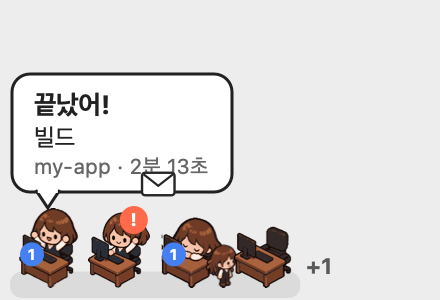
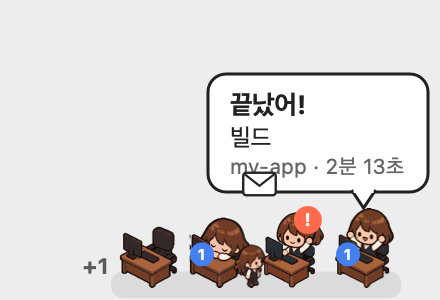
사무실을 오른쪽에서 왼쪽으로 늘린다
먼저 출근한 사람이 맨 오른쪽에 앉고 새로 온 사람은 그 왼쪽에 앉는다. +N 은 왼쪽 끝에 붙는다.
새 세션은 빈 공간인 왼쪽 끝에서 걸어 들어오고 왼쪽으로 걸어 나간다.
화면에 없는 세션이 보낸 메시지 봉투는 +N 쪽 왼쪽 끝에서 날아온다.
화면 오른쪽 구석에 두었을 때 사무실이 화면 안쪽으로 자라도록 한 배치. README 그림도 바꾼다.

diff --git a/src/BgBuddy.swift b/src/BgBuddy.swift
@@ -1413,7 +1413,10 @@ final class OfficeView: NSView {
         needsDisplay = true
     }
 
-    private func slotX(_ i: Int) -> CGFloat { OfficeView.margin + CGFloat(i) * (pack.slotW + OfficeView.gap) }
+    // 사무실은 오른쪽에서 왼쪽으로 늘어난다: 먼저 출근한 사람이 맨 오른쪽, 새로 온 사람은 그 왼쪽.
+    // 맨 오른쪽 책상 옆에 설 에이전트 자리만큼 오른쪽을 비워 둔다. +N 은 왼쪽 끝에.
+    private var rightStart: CGFloat { bounds.width - OfficeView.margin - pack.slotW * 0.45 - pack.slotW }
+    private func slotX(_ i: Int) -> CGFloat { rightStart - CGFloat(i) * (pack.slotW + OfficeView.gap) }
     private let floorY: CGFloat = 6
 
     private func frameRect(_ s: Seat, x: CGFloat, image: CGImage, scale k: CGFloat = 1) -> NSRect {
@@ -1436,26 +1439,27 @@ final class OfficeView: NSView {
         let now = Date()
         // 바닥: 앉은 사람 수만큼의 옅은 띠
         if !shown.isEmpty {
-            let w = CGFloat(shown.count) * (pack.slotW + OfficeView.gap) - OfficeView.gap
+            let left = slotX(shown.count - 1), right = slotX(0) + pack.slotW
             NSColor(white: 0.5, alpha: 0.16).setFill()
-            NSBezierPath(roundedRect: NSRect(x: OfficeView.margin - 3, y: 1, width: w + 6, height: floorY + pack.heightPt * 0.18), xRadius: 6, yRadius: 6).fill()
+            NSBezierPath(roundedRect: NSRect(x: left - 3, y: 1, width: right - left + 6, height: floorY + pack.heightPt * 0.18), xRadius: 6, yRadius: 6).fill()
         }
         for (i, s) in shown.enumerated() {
             let v = pack.variants[s.variant]
             let x = slotX(i)
             if let start = s.walkIn ?? s.walkOut ?? s.leaving {
-                // 출근·퇴근: 빈 책상 + 걷는 사람. 들어올 때는 오른쪽 끝에서 왼쪽으로(좌우 반전), 나갈 때는 오른쪽으로
+                // 출근·퇴근: 빈 책상 + 걷는 사람. 빈 공간인 왼쪽 끝에서 걸어 들어오고(그림 그대로 오른쪽을 봄),
+                // 나갈 때는 왼쪽으로 걸어 나간다(좌우 반전)
                 let empty = v.frames[pack.frames("empty")[0]]
                 ctx.draw(empty, in: frameRect(s, x: x, image: empty))
                 let t = min(1, now.timeIntervalSince(start) / OfficeView.walkTime)
                 let walker = v.frames[cycle("walk", start)]
                 let wr = frameRect(s, x: x, image: walker, scale: 0.92)
-                let far = bounds.width - wr.width - 2, near = wr.minX
+                let far: CGFloat = 2, near = wr.minX
                 let coming = s.walkIn != nil && s.leaving == nil
                 let wx = coming ? far + (near - far) * CGFloat(t) : near + (far - near) * CGFloat(t)
                 let r = NSRect(x: wx, y: wr.minY, width: wr.width, height: wr.height)
                 // 출근·복귀 중에 퇴근 상태가 되면 걸어 나가는 쪽으로 그린다
-                if s.walkIn != nil && s.leaving == nil {
+                if !coming {
                     ctx.saveGState(); ctx.translateBy(x: r.midX, y: 0); ctx.scaleBy(x: -1, y: 1); ctx.translateBy(x: -r.midX, y: 0)
                     ctx.draw(walker, in: r); ctx.restoreGState()
                 } else { ctx.draw(walker, in: r) }
@@ -1491,7 +1495,8 @@ final class OfficeView: NSView {
         }
         if overflow > 0 {
             let t = NSAttributedString(string: "+\(overflow)", attributes: [.font: NSFont.boldSystemFont(ofSize: 11), .foregroundColor: NSColor(white: 0.35, alpha: 1)])
-            t.draw(at: NSPoint(x: slotX(shown.count) + 2, y: floorY + 4))
+            let edge = shown.isEmpty ? rightStart + pack.slotW : slotX(shown.count - 1)
+            t.draw(at: NSPoint(x: edge - t.size().width - 4, y: floorY + 4))
         }
         bubbleRect = nil
         if let c = current, let i = shown.firstIndex(where: { $0.id == c.seat }) {
@@ -1511,8 +1516,8 @@ final class OfficeView: NSView {
     private func drawFlights(_ now: Date) {
         for f in flights {
             guard let end = headPoint(f.to) else { continue }
-            // 보낸 책상이 화면에 없으면(+N 이거나 모르는 세션) 오른쪽 끝에서 날아온다
-            let start = f.from.flatMap { headPoint($0) } ?? NSPoint(x: bounds.width - 10, y: end.y + 10)
+            // 보낸 책상이 화면에 없으면(+N 이거나 모르는 세션) +N 이 있는 왼쪽 끝에서 날아온다
+            let start = f.from.flatMap { headPoint($0) } ?? NSPoint(x: 10, y: end.y + 10)
             let t = now.timeIntervalSince(f.start)
             var p = end, scale: CGFloat = 1, alpha: CGFloat = 1
             if t < OfficeView.flightTime {
